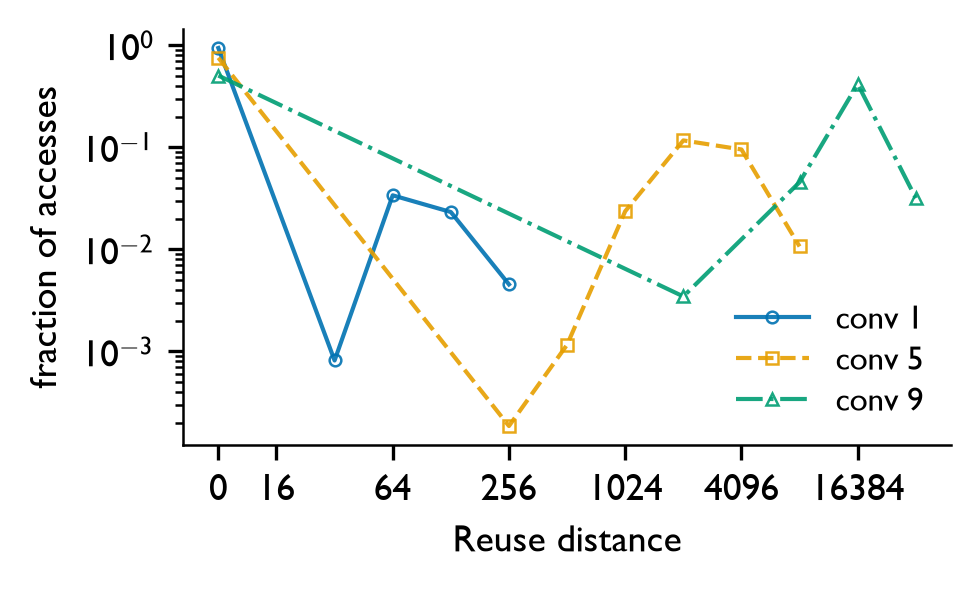
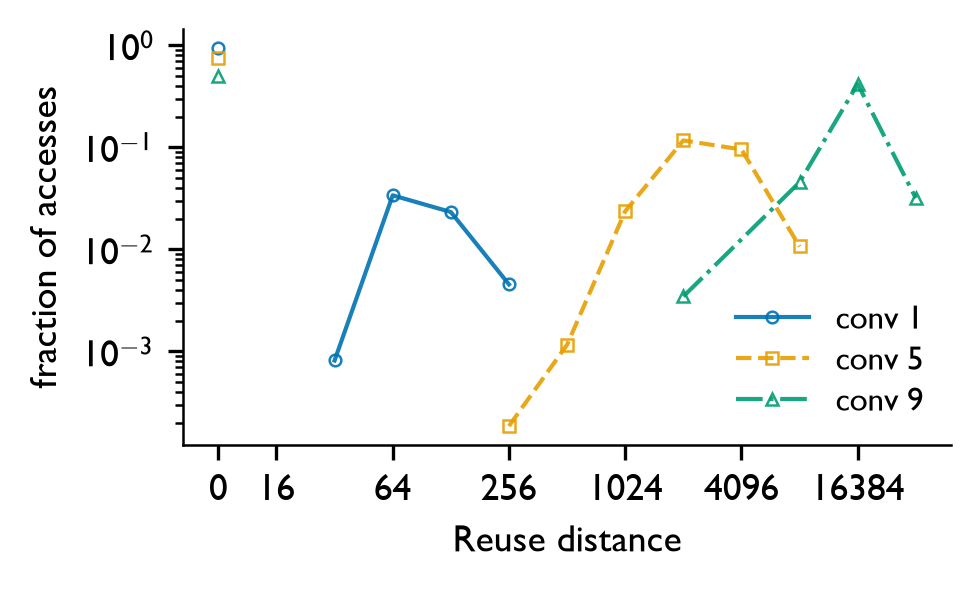
fig5: d=0 bin as isolated marker, curve starts at first nonzero distance

diff --git a/zoo/cache_dse/analysis/fig_reuse_pdf.py b/zoo/cache_dse/analysis/fig_reuse_pdf.py
@@ -95,10 +95,15 @@ for i, layer in enumerate(layers):
     mean = mat.mean(0)
     # Connect successive nonzero bins; zero-mass bins in between carry no
     # accesses and are skipped rather than drawn as cliffs to zero.
+    # The d=0 bin stands alone as a marker, not connected to the curve.
     mask = mean > 0
-    ax.plot(x[mask], mean[mask], color=color, lw=1.0, ls=ls, marker=marker,
+    tail = mask & (x > 0)
+    ax.plot(x[tail], mean[tail], color=color, lw=1.0, ls=ls, marker=marker,
             ms=2.8, markerfacecolor="none", markeredgewidth=0.6, alpha=0.9,
             label=label)
+    head = mask & (x == 0)
+    ax.plot(x[head], mean[head], color=color, ls="none", marker=marker,
+            ms=2.8, markerfacecolor="none", markeredgewidth=0.6, alpha=0.9)
 
 ax.set_xticks([bin_pos[b] for b in all_bins if b in (0, 4, 16, 64, 256, 1024, 4096, 16384)])
 ax.set_xticklabels([f"${b}$" for b in all_bins if b in (0, 4, 16, 64, 256, 1024, 4096, 16384)])
